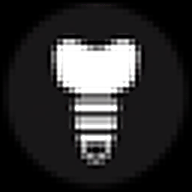
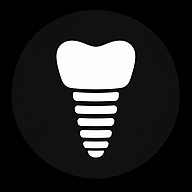
fix: usa imagem de referencia de alta resolucao para todos os icones PWA

diff --git a/sw.js b/sw.js
@@ -2,7 +2,7 @@
    Sem cache de conteudo: apenas ativa e assume o controle,
    sem risco de servir paginas desatualizadas.
    Versao atualizada para forcar renovacao dos icones PWA. */
-const SMILESPACE_SW_VERSION = "2026-11-09-icons";
+const SMILESPACE_SW_VERSION = "2026-11-09-icons-v2";
 
 self.addEventListener("install", (event) => {
   self.skipWaiting();
